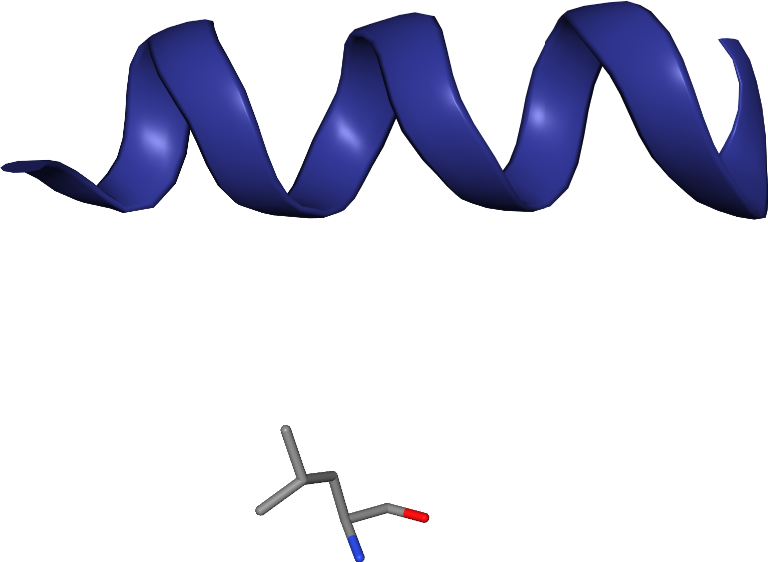
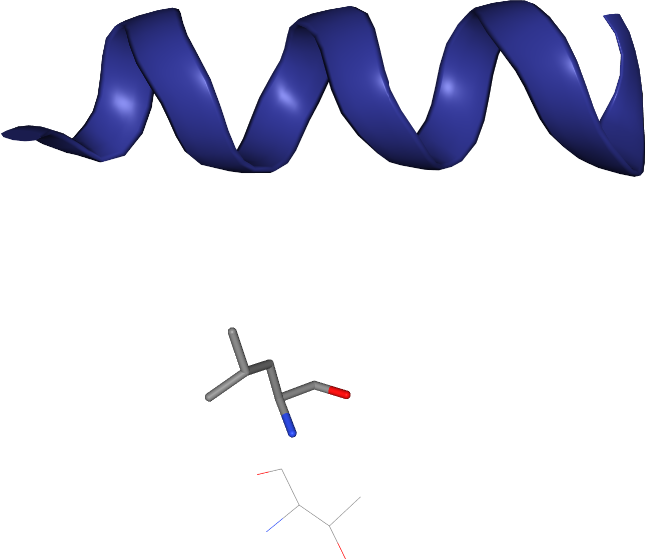
:art: Making file names cleaner

Changed region(s): [[0.0, 0.0, 1.0, 0.3953], [0.3101, 0.7603, 0.5581, 1.0], [0.3101, 0.5778, 0.5581, 0.7907]]

diff --git a/example.html b/example.html
@@ -27,10 +27,13 @@
                         var m4 = (new NGL.Matrix4).fromArray([-33.08379747084204, 52.62455953102059, -26.32785134913191, 0.0, -56.675070010806365, -20.374221977107002, 30.493959724841147, 0.0, 15.825718589909755, 37.04851937306921, 54.166395608812174, 0.0, -30.421813965, -32.531013489, -13.075076103, 1.0]); stage.viewerControls.orient(m4);
                         
 						protein.removeAllRepresentations();
+						var lines = new NGL.Selection( "66.N or 66.CA or 66.C or 66.O or 66.CB or 66.CG2 or 66.OG1" );
+						protein.addRepresentation( "line", { sele: lines.string} );
+
 						var sticks = new NGL.Selection( "67.N or 67.CA or 67.C or 67.O or 67.CB or 67.CG or 67.CD1 or 67.CD2" );
 						protein.addRepresentation( "licorice", { sele: sticks.string} );
 
-						var cartoon = new NGL.Selection( "28 or 29 or 31 or 23 or 26 or 32 or 24 or 25 or 33 or 27 or 30 or 34 or 35 or 22" );
+						var cartoon = new NGL.Selection( "28 or 35 or 24 or 25 or 32 or 26 or 27 or 29 or 31 or 22 or 33 or 34 or 30 or 23" );
 						protein.addRepresentation( "cartoon", { sele: cartoon.string} );
 
                         stage.viewerControls.orient(m4);

diff --git a/PyMOL_to_NGL.py b/PyMOL_to_NGL.py
@@ -125,11 +125,11 @@ class PyMolTranspiler:
         for atom in self.atoms:
             reps=list(reversed("{0:0>8b}".format(int(atom['reps']))))
             # sticks
-            if reps[0] == '1':
+            if reps[0] == '1': #sticks.
                 sticks.append(atom['resi']+'.'+atom['name'])
-            if reps[0] == '7':
+            if reps[7] == '1': #lines.
                 lines.append(atom['resi'] + '.' + atom['name'])
-            if reps[5] == '1': # special case...
+            if reps[5] == '1': # cartoon. special case...
                 cartoon.append(atom['resi'])
         cartoon=list(set(cartoon))
         code=['protein.removeAllRepresentations();']
@@ -182,7 +182,7 @@ def test():
     trans.pdb='1UBQ'
     view=''
     reps=''
-    data=open('PyMol_output.txt').read().split('PyMOL>')
+    data=open('PyMol_output_example.txt').read().split('PyMOL>')
     for block in data:
         if 'get_view' in block:
             view = block
@@ -191,7 +191,7 @@ def test():
     trans.convert_view(view)
     trans.convert_reps(reps)
     code=trans.to_html_line() #ngl='ngl.js'
-    trans.write_hmtl(template_file='test2.mako',output_file='test_2.html', code=code)
+    trans.write_hmtl(template_file='test2.mako',output_file='example.html', code=code)
 
 
 if __name__ == "__main__":
